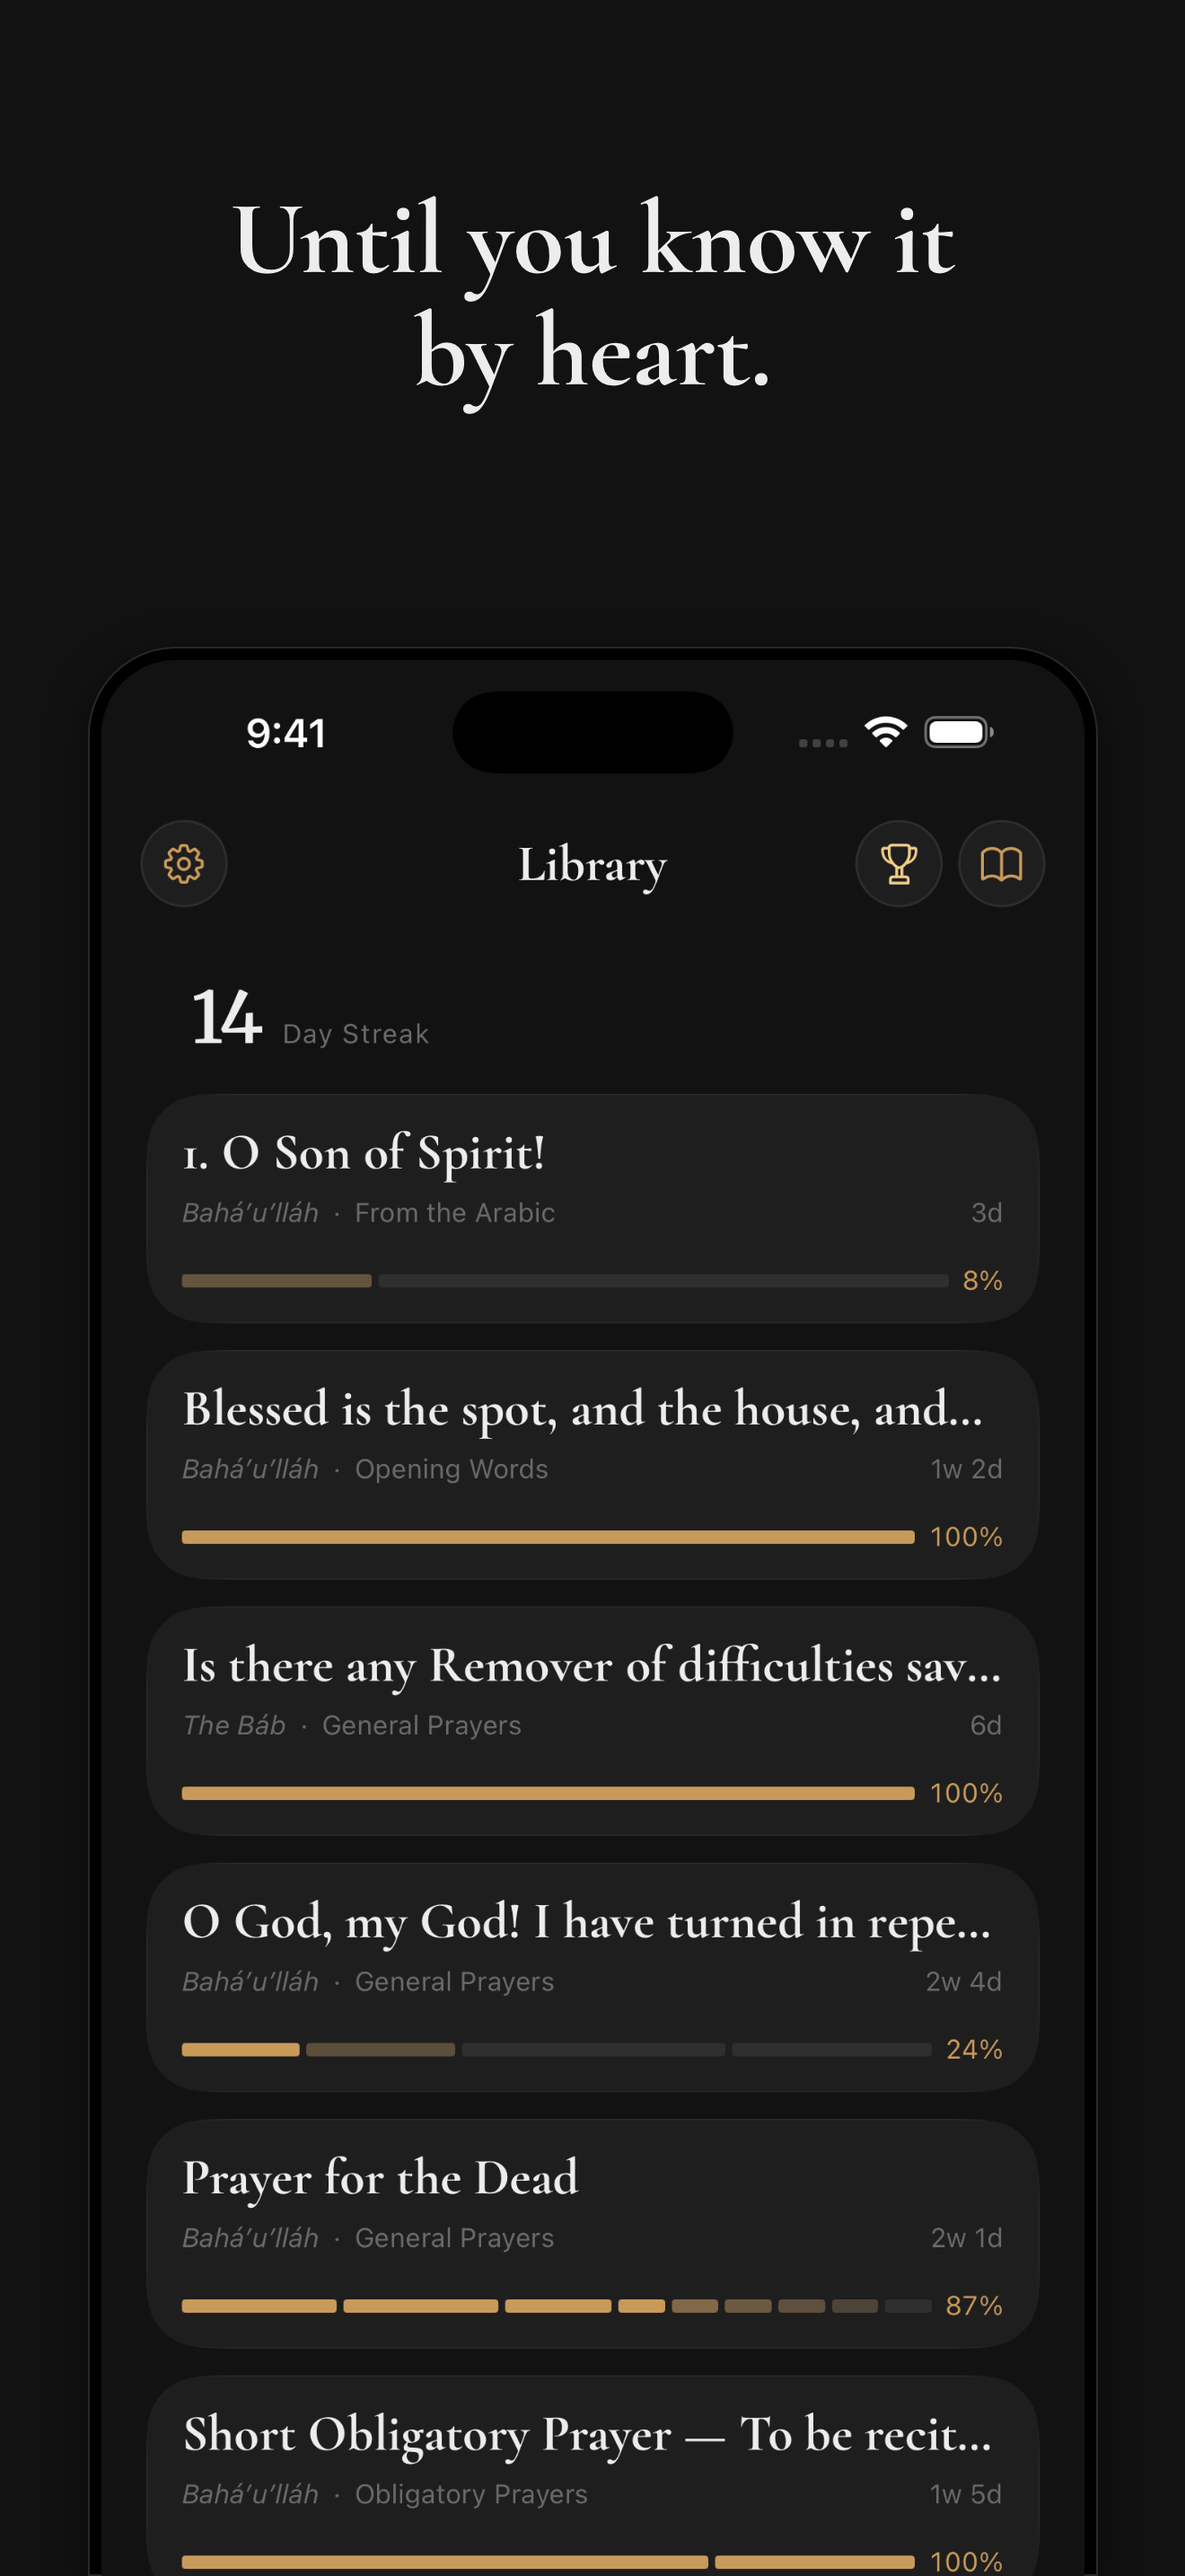
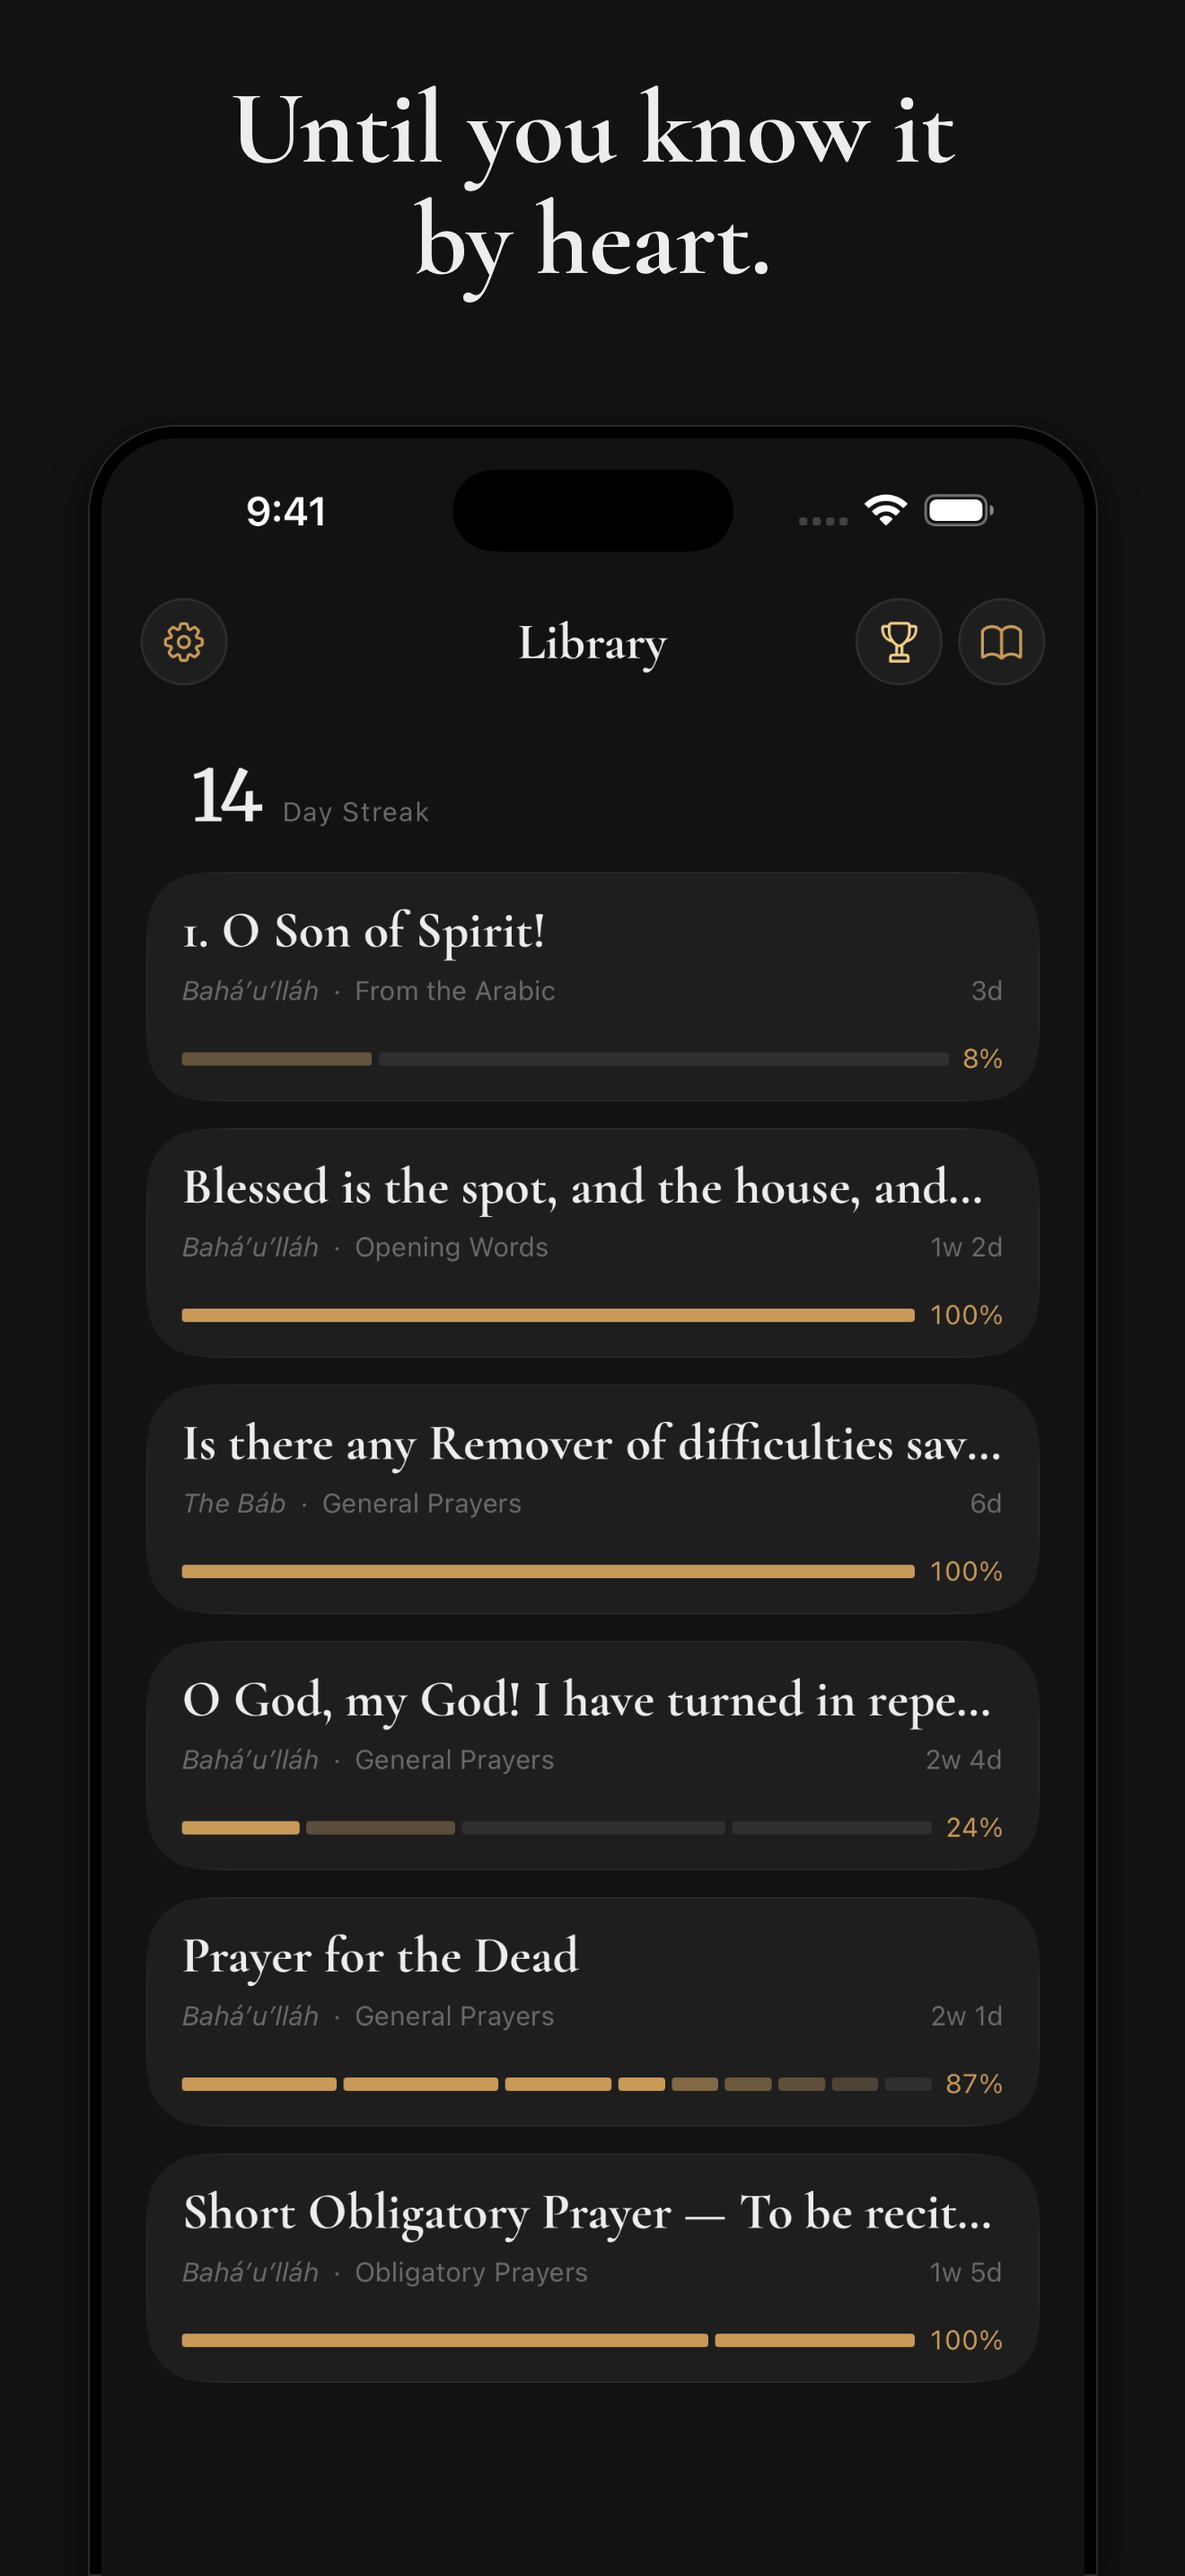
Frame every iPhone tile at the same phone size
The recitation tile got its own phone_top so the mic at the bottom of the screen
would fit, and the result was a phone visibly taller than the other four. In a
set meant to read as one pass through one app, a device that changes size from
tile to tile is worse than the crop it was avoiding.

Lower phone_top for the device instead of for the one tile. The screenshot
scales to 2379px against a window that was 2133px, so the old framing could
never have shown the mic; at 0.165 the whole screen fits and every tile is
framed identically. Tiles 2, 3 and 4 are now the same screen with the mic idle,
idle, then active, which makes the sequence read better than it did before.

The per-tile geometry override stays, since resolving it costs one dict merge,
but nothing uses it and phone_top is the wrong thing to vary per tile.

Claude-Session: https://claude.ai/code/session_01Vt6RW6bMXr8RuiAvZQv7pV

diff --git a/Design/StoreFrames/generate_store_frames.py b/Design/StoreFrames/generate_store_frames.py
@@ -38,7 +38,7 @@ GEOMETRY = dict(
     headline_lift=0.022,    # optical bias above dead centre of the band
     headline_size=0.089,    # em, as a fraction of canvas width
     headline_leading=1.06,
-    phone_top=0.251,
+    phone_top=0.165,
     phone_width=0.852,
     bezel=0.0114,           # bezel thickness, fraction of canvas width
     radius=0.0742,          # outer corner radius, fraction of canvas width
@@ -70,8 +70,7 @@ TILES = [
     dict(name="3-hide-more.png", source="9-hide-more.png",
          headline="Hide more\neach time you return."),
     dict(name="4-recite.png", source="recite-aloud.png",
-         headline="Then say it\nout loud.",
-         geometry=dict(phone_top=0.165)),
+         headline="Then say it\nout loud."),
     dict(name="5-know.png", source="6-library-dark.png", theme="dark",
          headline="Until you know it\nby heart.",
          per_device={"ipad-13": dict(source="1-library.png", theme="light")}),

diff --git a/Design/StoreFrames/README.md b/Design/StoreFrames/README.md
@@ -21,12 +21,17 @@ two stages, so the set demonstrates the loop instead of describing it. Reorderin
 breaks that; the story is the point, not the coverage. The recitation beat sits after that
 pair rather than between them, for the same reason.
 
-`4-recite.png` sets its own `phone_top` through a per-tile `geometry` override, which merges
-over the device's. It is the one tile whose subject — the mic and the heard line — sits at
-the very bottom of the screen, so the usual bleed crops away the whole point of it and
-leaves a page of blanks. Lowering the phone shows the full screen while keeping the phone
-the same width as its siblings, so the set still reads as one device throughout. Raise
-`phone_top` back and the mic goes over the edge again.
+`phone_top` is what makes the recitation tile possible. It used to sit at `0.251`, which
+showed 2133px of a screenshot that scales to 2379px — fine for four tiles whose subject is
+in the upper half, fatal for one whose subject is the mic at the very bottom. At `0.165` the
+whole screen fits, so tiles 2, 3 and 4 now show the same screen with the mic going idle,
+idle, then active.
+
+It is a property of the device, not of one tile: a single tile framed differently reads as a
+different, larger phone, which is the one thing a set like this cannot afford. A tile *can*
+override `geometry` the way it overrides `source` and `theme` — the key merges over the
+device's — but nothing uses it, and a per-tile `phone_top` in particular should be treated
+as a bug rather than a feature.
 
 The closing tile is dark. It is the one place a theme can be shown without spending a tile
 on it, and it lands on the library, where the ramps and the streak carry the same reading
@@ -67,8 +72,11 @@ feature claims match the app (reminders exist, so "no notifications" is false; t
 achievement tile names a count that `AchievementCatalog.all` has to still agree with).
 
 **The phone bleeds off the bottom on purpose.** Fitting the whole device on the canvas
-would shrink the UI to the point where nothing in it can be read. The screenshot is scaled
-to the bezel's inner width and whatever runs past the bottom edge is cropped.
+would shrink the UI to the point where nothing in it can be read, so the bezel runs to the
+canvas edge with no bottom rim. The screenshot is scaled to the bezel's inner width, and at
+the current `phone_top` the full 1320×2868 capture lands within a pixel of the visible
+screen — so nothing is cropped today, but the margin is one pixel. Raising `phone_top`, or
+feeding in a taller raw, starts eating the bottom of the screenshot again.
 
 **A black bezel disappears on the dark ground.** Dark tiles draw the phone's silhouette
 with an inset rim highlight instead. Without it the screenshot appears to float in a void.
